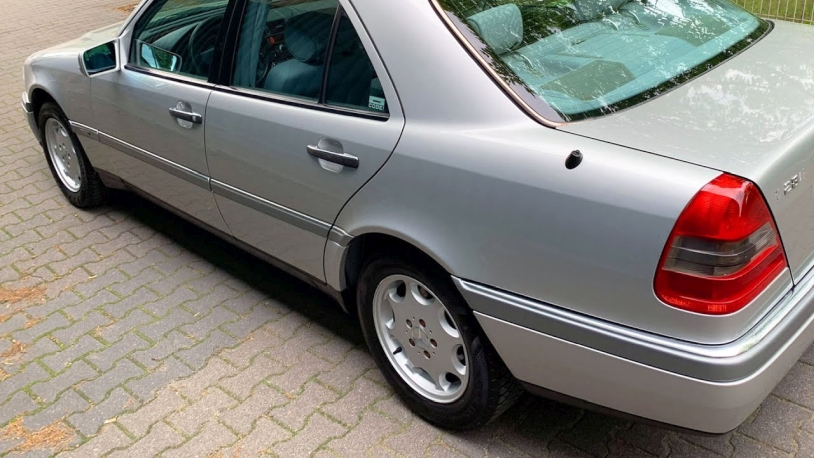
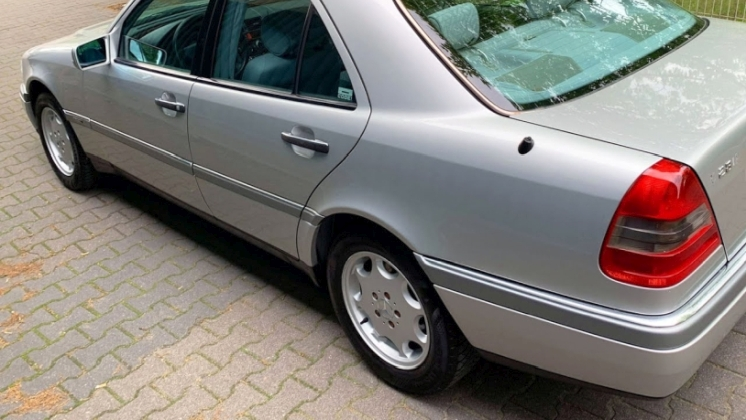
c

diff --git a/pic/ja_mb_img_c.html b/pic/ja_mb_img_c.html
@@ -271,7 +271,7 @@
 						<a href="full/c/w202_r.jpg"><img src="style/c/w202_r.jpg" alt="メルセデス,W202,Cクラス,リヤ" width="763" height="443"></a>
 						<a href="full/c/w202_d.jpg"><img src="style/c/w202_d.jpg" alt="メルセデス,W202,C-Class,ダッシュボード" width="443" height="443"></a><br>
 						<a href="full/c/w202_tp.jpg"><img src="style/c/w202_tp.jpg" alt="メルセデス,W202,C-Class,寸法" width="1210" height="728"></a><br>
-						<a href="full/c/w202_s.jpg"><img src="style/c/w202_s.jpg" alt="メルセデス,W202,C-Class,サイドビュー" width="814" height="420"></a>
+						<a href="full/c/w202_s.jpg"><img src="style/c/w202_s.jpg" alt="メルセデス,W202,C-Class,サイドビュー" width="746" height="420"></a>
 						<a href="full/c/w202_m.jpg"><img src="style/c/w202_m.jpg" alt="メルセデス,W202,C-Class,エンジン" width="458" height="420"></a><br>
 						<h4>C-Class VS BMW E36</h4>
 						<a href="full/c/bmw-e36-mercedes-w202.jpg"><img src="style/c/bmw-e36-mercedes-w202.jpg" alt="メルセデス,W202,C-Class-BMW-e36" width="1210" height="807"></a><br>
